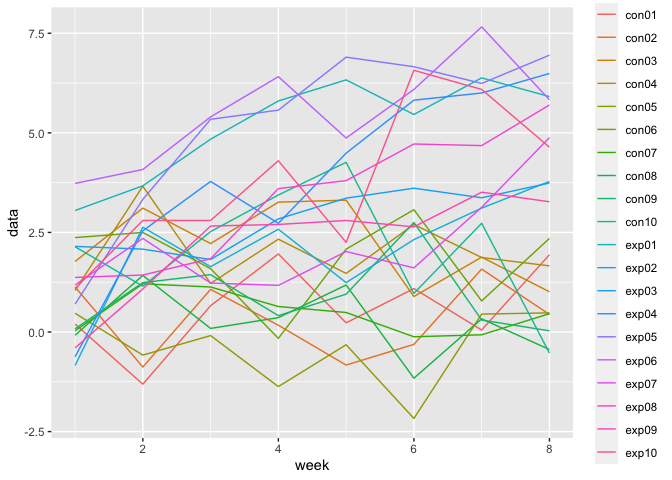
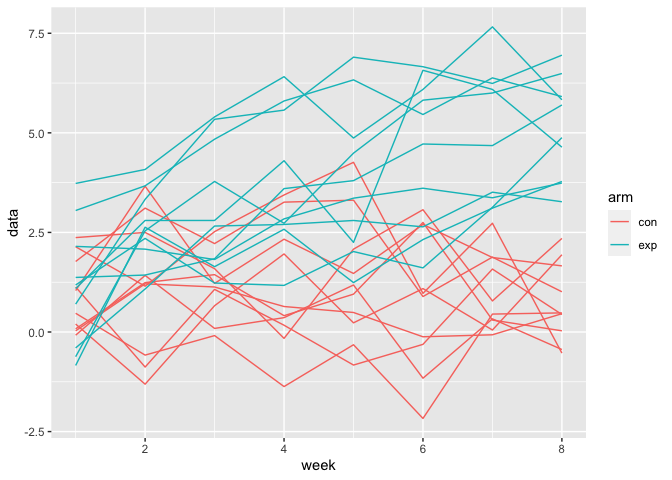
Polish!

diff --git a/DataScience_hm5.md b/DataScience_hm5.md
@@ -196,22 +196,20 @@ data_tidy =
   select(subject,week,data)%>%
   pivot_wider(names_from = subject,values_from = data)%>%
   mutate(week = as.numeric(str_remove(week,"week_")))
-data_tidy
+data_tidy%>%
+  knitr::kable()
 ```
 
-    ## # A tibble: 8 x 21
-    ##    week exp01 con01 exp02 con02 exp03 con03 exp04 con04 exp05 con05 exp06 con06
-    ##   <dbl> <dbl> <dbl> <dbl> <dbl> <dbl> <dbl> <dbl> <dbl> <dbl> <dbl> <dbl> <dbl>
-    ## 1     1  3.05  0.2  -0.84  1.13  2.15  1.77 -0.62  1.04  0.7   0.47  3.73  2.37
-    ## 2     2  3.67 -1.31  2.63 -0.88  2.08  3.11  2.54  3.66  3.33 -0.58  4.08  2.5 
-    ## 3     3  4.84  0.66  1.64  1.07  1.82  2.22  3.78  1.22  5.34 -0.09  5.4   1.59
-    ## 4     4  5.8   1.96  2.58  0.17  2.84  3.26  2.73  2.33  5.57 -1.37  6.41 -0.16
-    ## 5     5  6.33  0.23  1.24 -0.83  3.36  3.31  4.49  1.47  6.9  -0.32  4.87  2.08
-    ## 6     6  5.46  1.09  2.32 -0.31  3.61  0.89  5.82  2.7   6.66 -2.17  6.09  3.07
-    ## 7     7  6.38  0.05  3.11  1.58  3.37  1.88  6     1.87  6.24  0.45  7.66  0.78
-    ## 8     8  5.91  1.94  3.78  0.44  3.74  1.01  6.49  1.66  6.95  0.48  5.83  2.35
-    ## # … with 8 more variables: exp07 <dbl>, con07 <dbl>, exp08 <dbl>, con08 <dbl>,
-    ## #   exp09 <dbl>, con09 <dbl>, exp10 <dbl>, con10 <dbl>
+| week | exp01 | con01 | exp02 | con02 | exp03 | con03 | exp04 | con04 | exp05 | con05 | exp06 | con06 | exp07 | con07 | exp08 | con08 | exp09 | con09 | exp10 | con10 |
+|-----:|------:|------:|------:|------:|------:|------:|------:|------:|------:|------:|------:|------:|------:|------:|------:|------:|------:|------:|------:|------:|
+|    1 |  3.05 |  0.20 | -0.84 |  1.13 |  2.15 |  1.77 | -0.62 |  1.04 |  0.70 |  0.47 |  3.73 |  2.37 |  1.18 |  0.03 |  1.37 | -0.08 | -0.40 |  0.08 |  1.09 |  2.14 |
+|    2 |  3.67 | -1.31 |  2.63 | -0.88 |  2.08 |  3.11 |  2.54 |  3.66 |  3.33 | -0.58 |  4.08 |  2.50 |  2.35 |  1.21 |  1.43 |  1.42 |  1.08 |  1.24 |  2.80 |  1.15 |
+|    3 |  4.84 |  0.66 |  1.64 |  1.07 |  1.82 |  2.22 |  3.78 |  1.22 |  5.34 | -0.09 |  5.40 |  1.59 |  1.23 |  1.13 |  1.84 |  0.09 |  2.66 |  1.44 |  2.80 |  2.52 |
+|    4 |  5.80 |  1.96 |  2.58 |  0.17 |  2.84 |  3.26 |  2.73 |  2.33 |  5.57 | -1.37 |  6.41 | -0.16 |  1.17 |  0.64 |  3.60 |  0.36 |  2.70 |  0.41 |  4.30 |  3.44 |
+|    5 |  6.33 |  0.23 |  1.24 | -0.83 |  3.36 |  3.31 |  4.49 |  1.47 |  6.90 | -0.32 |  4.87 |  2.08 |  2.02 |  0.49 |  3.80 |  1.18 |  2.80 |  0.95 |  2.25 |  4.26 |
+|    6 |  5.46 |  1.09 |  2.32 | -0.31 |  3.61 |  0.89 |  5.82 |  2.70 |  6.66 | -2.17 |  6.09 |  3.07 |  1.61 | -0.12 |  4.72 | -1.16 |  2.64 |  2.75 |  6.57 |  0.97 |
+|    7 |  6.38 |  0.05 |  3.11 |  1.58 |  3.37 |  1.88 |  6.00 |  1.87 |  6.24 |  0.45 |  7.66 |  0.78 |  3.13 | -0.07 |  4.68 |  0.33 |  3.51 |  0.30 |  6.09 |  2.73 |
+|    8 |  5.91 |  1.94 |  3.78 |  0.44 |  3.74 |  1.01 |  6.49 |  1.66 |  6.95 |  0.48 |  5.83 |  2.35 |  4.88 |  0.46 |  5.70 | -0.44 |  3.27 |  0.03 |  4.64 | -0.53 |
 
 Method\_2 using purrr package
 
@@ -241,37 +239,22 @@ data_tidy =
   select(subject,week,data)%>%
   pivot_wider(names_from = subject,values_from = data)%>%
   mutate(week = as.numeric(str_remove(week,"week_")))
-data_tidy
+data_tidy%>%
+  knitr::kable()
 ```
 
-    ## # A tibble: 8 x 21
-    ##    week con01 con02 con03 con04 con05 con06 con07 con08 con09 con10 exp01 exp02
-    ##   <dbl> <dbl> <dbl> <dbl> <dbl> <dbl> <dbl> <dbl> <dbl> <dbl> <dbl> <dbl> <dbl>
-    ## 1     1  0.2   1.13  1.77  1.04  0.47  2.37  0.03 -0.08  0.08  2.14  3.05 -0.84
-    ## 2     2 -1.31 -0.88  3.11  3.66 -0.58  2.5   1.21  1.42  1.24  1.15  3.67  2.63
-    ## 3     3  0.66  1.07  2.22  1.22 -0.09  1.59  1.13  0.09  1.44  2.52  4.84  1.64
-    ## 4     4  1.96  0.17  3.26  2.33 -1.37 -0.16  0.64  0.36  0.41  3.44  5.8   2.58
-    ## 5     5  0.23 -0.83  3.31  1.47 -0.32  2.08  0.49  1.18  0.95  4.26  6.33  1.24
-    ## 6     6  1.09 -0.31  0.89  2.7  -2.17  3.07 -0.12 -1.16  2.75  0.97  5.46  2.32
-    ## 7     7  0.05  1.58  1.88  1.87  0.45  0.78 -0.07  0.33  0.3   2.73  6.38  3.11
-    ## 8     8  1.94  0.44  1.01  1.66  0.48  2.35  0.46 -0.44  0.03 -0.53  5.91  3.78
-    ## # … with 8 more variables: exp03 <dbl>, exp04 <dbl>, exp05 <dbl>, exp06 <dbl>,
-    ## #   exp07 <dbl>, exp08 <dbl>, exp09 <dbl>, exp10 <dbl>
+| week | con01 | con02 | con03 | con04 | con05 | con06 | con07 | con08 | con09 | con10 | exp01 | exp02 | exp03 | exp04 | exp05 | exp06 | exp07 | exp08 | exp09 | exp10 |
+|-----:|------:|------:|------:|------:|------:|------:|------:|------:|------:|------:|------:|------:|------:|------:|------:|------:|------:|------:|------:|------:|
+|    1 |  0.20 |  1.13 |  1.77 |  1.04 |  0.47 |  2.37 |  0.03 | -0.08 |  0.08 |  2.14 |  3.05 | -0.84 |  2.15 | -0.62 |  0.70 |  3.73 |  1.18 |  1.37 | -0.40 |  1.09 |
+|    2 | -1.31 | -0.88 |  3.11 |  3.66 | -0.58 |  2.50 |  1.21 |  1.42 |  1.24 |  1.15 |  3.67 |  2.63 |  2.08 |  2.54 |  3.33 |  4.08 |  2.35 |  1.43 |  1.08 |  2.80 |
+|    3 |  0.66 |  1.07 |  2.22 |  1.22 | -0.09 |  1.59 |  1.13 |  0.09 |  1.44 |  2.52 |  4.84 |  1.64 |  1.82 |  3.78 |  5.34 |  5.40 |  1.23 |  1.84 |  2.66 |  2.80 |
+|    4 |  1.96 |  0.17 |  3.26 |  2.33 | -1.37 | -0.16 |  0.64 |  0.36 |  0.41 |  3.44 |  5.80 |  2.58 |  2.84 |  2.73 |  5.57 |  6.41 |  1.17 |  3.60 |  2.70 |  4.30 |
+|    5 |  0.23 | -0.83 |  3.31 |  1.47 | -0.32 |  2.08 |  0.49 |  1.18 |  0.95 |  4.26 |  6.33 |  1.24 |  3.36 |  4.49 |  6.90 |  4.87 |  2.02 |  3.80 |  2.80 |  2.25 |
+|    6 |  1.09 | -0.31 |  0.89 |  2.70 | -2.17 |  3.07 | -0.12 | -1.16 |  2.75 |  0.97 |  5.46 |  2.32 |  3.61 |  5.82 |  6.66 |  6.09 |  1.61 |  4.72 |  2.64 |  6.57 |
+|    7 |  0.05 |  1.58 |  1.88 |  1.87 |  0.45 |  0.78 | -0.07 |  0.33 |  0.30 |  2.73 |  6.38 |  3.11 |  3.37 |  6.00 |  6.24 |  7.66 |  3.13 |  4.68 |  3.51 |  6.09 |
+|    8 |  1.94 |  0.44 |  1.01 |  1.66 |  0.48 |  2.35 |  0.46 | -0.44 |  0.03 | -0.53 |  5.91 |  3.78 |  3.74 |  6.49 |  6.95 |  5.83 |  4.88 |  5.70 |  3.27 |  4.64 |
 
 ### Spaghetti plot
-
-``` r
-data_tidy%>%
-  pivot_longer(con01:exp10,
-               names_to = 'subject',
-               values_to = 'data')%>%
-  ggplot(aes(x = week,y = data,color = subject))+
-  geom_line()
-```
-
-![](DataScience_hm5_files/figure-gfm/unnamed-chunk-11-1.png)<!-- --> To
-see the difference between control group and experiement we nee to draw
-a plot seperated by group.
 
 ``` r
 data_tidy%>%
@@ -283,10 +266,10 @@ data_tidy%>%
   geom_line(aes(color = arm))
 ```
 
-![](DataScience_hm5_files/figure-gfm/unnamed-chunk-12-1.png)<!-- -->
+![](DataScience_hm5_files/figure-gfm/unnamed-chunk-11-1.png)<!-- -->
 
 -   From the grouped line plot we can conclude that the value of
-    experiment group is greater than contorl group.
+    experiment group is greater than control group.
 
 # Problem 3
 
@@ -322,7 +305,7 @@ iris_with_missing
 ``` r
 fill_missing = function(vector){
   if(typeof(vector[1])=="double"){
-  mean = round(mean(vector,na.rm = TRUE),2)
+  mean = mean(vector,na.rm = TRUE)
   vector[is.na(vector)] = mean
   round(vector,2)
   vector
@@ -332,57 +315,116 @@ fill_missing = function(vector){
     vector
   }
 }
+
+#return the df of filled data
+iris_with_missing %>%
+  map_df(fill_missing)%>%
+  head(10)%>%
+  knitr::kable()
+```
+
+| sepal\_length | sepal\_width | petal\_length | petal\_width | species |
+|--------------:|-------------:|--------------:|-------------:|:--------|
+|      5.100000 |          3.5 |      1.400000 |     0.200000 | setosa  |
+|      4.900000 |          3.0 |      1.400000 |     0.200000 | setosa  |
+|      4.700000 |          3.2 |      1.300000 |     0.200000 | setosa  |
+|      4.600000 |          3.1 |      1.500000 |     1.192308 | setosa  |
+|      5.000000 |          3.6 |      1.400000 |     0.200000 | setosa  |
+|      5.400000 |          3.9 |      1.700000 |     0.400000 | setosa  |
+|      5.819231 |          3.4 |      1.400000 |     0.300000 | setosa  |
+|      5.000000 |          3.4 |      1.500000 |     0.200000 | setosa  |
+|      4.400000 |          2.9 |      1.400000 |     0.200000 | setosa  |
+|      4.900000 |          3.1 |      3.765385 |     0.100000 | setosa  |
+
+``` r
+# return the vector 
 iris_with_missing %>%
   map(fill_missing)
 ```
 
     ## $sepal_length
-    ##   [1] 5.10 4.90 4.70 4.60 5.00 5.40 5.82 5.00 4.40 4.90 5.40 4.80 5.82 4.30 5.82
-    ##  [16] 5.70 5.40 5.10 5.70 5.10 5.40 5.10 4.60 5.82 4.80 5.00 5.00 5.20 5.82 4.70
-    ##  [31] 4.80 5.40 5.20 5.50 4.90 5.00 5.50 4.90 4.40 5.10 5.00 4.50 4.40 5.00 5.10
-    ##  [46] 4.80 5.10 4.60 5.30 5.00 7.00 6.40 6.90 5.50 6.50 5.70 6.30 4.90 6.60 5.20
-    ##  [61] 5.00 5.90 6.00 6.10 5.60 6.70 5.60 5.80 6.20 5.60 5.90 5.82 6.30 5.82 6.40
-    ##  [76] 6.60 6.80 6.70 6.00 5.70 5.50 5.82 5.80 6.00 5.40 5.82 6.70 5.82 5.60 5.50
-    ##  [91] 5.50 5.82 5.80 5.00 5.82 5.70 5.70 6.20 5.10 5.70 6.30 5.80 7.10 6.30 6.50
-    ## [106] 7.60 4.90 7.30 6.70 5.82 6.50 5.82 6.80 5.70 5.80 6.40 6.50 7.70 7.70 6.00
-    ## [121] 5.82 5.60 7.70 6.30 6.70 7.20 6.20 6.10 6.40 7.20 7.40 7.90 6.40 5.82 6.10
-    ## [136] 5.82 5.82 6.40 6.00 6.90 6.70 6.90 5.82 6.80 6.70 6.70 6.30 6.50 5.82 5.90
+    ##   [1] 5.100000 4.900000 4.700000 4.600000 5.000000 5.400000 5.819231 5.000000
+    ##   [9] 4.400000 4.900000 5.400000 4.800000 5.819231 4.300000 5.819231 5.700000
+    ##  [17] 5.400000 5.100000 5.700000 5.100000 5.400000 5.100000 4.600000 5.819231
+    ##  [25] 4.800000 5.000000 5.000000 5.200000 5.819231 4.700000 4.800000 5.400000
+    ##  [33] 5.200000 5.500000 4.900000 5.000000 5.500000 4.900000 4.400000 5.100000
+    ##  [41] 5.000000 4.500000 4.400000 5.000000 5.100000 4.800000 5.100000 4.600000
+    ##  [49] 5.300000 5.000000 7.000000 6.400000 6.900000 5.500000 6.500000 5.700000
+    ##  [57] 6.300000 4.900000 6.600000 5.200000 5.000000 5.900000 6.000000 6.100000
+    ##  [65] 5.600000 6.700000 5.600000 5.800000 6.200000 5.600000 5.900000 5.819231
+    ##  [73] 6.300000 5.819231 6.400000 6.600000 6.800000 6.700000 6.000000 5.700000
+    ##  [81] 5.500000 5.819231 5.800000 6.000000 5.400000 5.819231 6.700000 5.819231
+    ##  [89] 5.600000 5.500000 5.500000 5.819231 5.800000 5.000000 5.819231 5.700000
+    ##  [97] 5.700000 6.200000 5.100000 5.700000 6.300000 5.800000 7.100000 6.300000
+    ## [105] 6.500000 7.600000 4.900000 7.300000 6.700000 5.819231 6.500000 5.819231
+    ## [113] 6.800000 5.700000 5.800000 6.400000 6.500000 7.700000 7.700000 6.000000
+    ## [121] 5.819231 5.600000 7.700000 6.300000 6.700000 7.200000 6.200000 6.100000
+    ## [129] 6.400000 7.200000 7.400000 7.900000 6.400000 5.819231 6.100000 5.819231
+    ## [137] 5.819231 6.400000 6.000000 6.900000 6.700000 6.900000 5.819231 6.800000
+    ## [145] 6.700000 6.700000 6.300000 6.500000 5.819231 5.900000
     ## 
     ## $sepal_width
-    ##   [1] 3.50 3.00 3.20 3.10 3.60 3.90 3.40 3.40 2.90 3.10 3.08 3.40 3.08 3.00 4.00
-    ##  [16] 4.40 3.90 3.50 3.80 3.80 3.40 3.70 3.60 3.30 3.40 3.00 3.40 3.50 3.40 3.20
-    ##  [31] 3.10 3.08 3.08 4.20 3.10 3.20 3.50 3.60 3.00 3.40 3.50 3.08 3.20 3.50 3.80
-    ##  [46] 3.00 3.80 3.20 3.70 3.08 3.08 3.20 3.10 2.30 2.80 2.80 3.30 2.40 2.90 2.70
-    ##  [61] 2.00 3.00 2.20 2.90 2.90 3.10 3.00 3.08 2.20 2.50 3.20 2.80 2.50 2.80 2.90
-    ##  [76] 3.00 2.80 3.08 3.08 2.60 2.40 2.40 2.70 2.70 3.00 3.40 3.10 3.08 3.00 2.50
-    ##  [91] 3.08 3.08 3.08 2.30 2.70 3.00 2.90 2.90 2.50 2.80 3.08 2.70 3.00 2.90 3.08
-    ## [106] 3.00 2.50 2.90 3.08 3.60 3.20 2.70 3.00 3.08 2.80 3.20 3.00 3.80 2.60 2.20
-    ## [121] 3.20 3.08 2.80 2.70 3.30 3.20 2.80 3.00 2.80 3.00 2.80 3.80 2.80 2.80 3.08
-    ## [136] 3.00 3.40 3.10 3.00 3.10 3.10 3.10 2.70 3.20 3.30 3.00 2.50 3.00 3.40 3.00
+    ##   [1] 3.500000 3.000000 3.200000 3.100000 3.600000 3.900000 3.400000 3.400000
+    ##   [9] 2.900000 3.100000 3.075385 3.400000 3.075385 3.000000 4.000000 4.400000
+    ##  [17] 3.900000 3.500000 3.800000 3.800000 3.400000 3.700000 3.600000 3.300000
+    ##  [25] 3.400000 3.000000 3.400000 3.500000 3.400000 3.200000 3.100000 3.075385
+    ##  [33] 3.075385 4.200000 3.100000 3.200000 3.500000 3.600000 3.000000 3.400000
+    ##  [41] 3.500000 3.075385 3.200000 3.500000 3.800000 3.000000 3.800000 3.200000
+    ##  [49] 3.700000 3.075385 3.075385 3.200000 3.100000 2.300000 2.800000 2.800000
+    ##  [57] 3.300000 2.400000 2.900000 2.700000 2.000000 3.000000 2.200000 2.900000
+    ##  [65] 2.900000 3.100000 3.000000 3.075385 2.200000 2.500000 3.200000 2.800000
+    ##  [73] 2.500000 2.800000 2.900000 3.000000 2.800000 3.075385 3.075385 2.600000
+    ##  [81] 2.400000 2.400000 2.700000 2.700000 3.000000 3.400000 3.100000 3.075385
+    ##  [89] 3.000000 2.500000 3.075385 3.075385 3.075385 2.300000 2.700000 3.000000
+    ##  [97] 2.900000 2.900000 2.500000 2.800000 3.075385 2.700000 3.000000 2.900000
+    ## [105] 3.075385 3.000000 2.500000 2.900000 3.075385 3.600000 3.200000 2.700000
+    ## [113] 3.000000 3.075385 2.800000 3.200000 3.000000 3.800000 2.600000 2.200000
+    ## [121] 3.200000 3.075385 2.800000 2.700000 3.300000 3.200000 2.800000 3.000000
+    ## [129] 2.800000 3.000000 2.800000 3.800000 2.800000 2.800000 3.075385 3.000000
+    ## [137] 3.400000 3.100000 3.000000 3.100000 3.100000 3.100000 2.700000 3.200000
+    ## [145] 3.300000 3.000000 2.500000 3.000000 3.400000 3.000000
     ## 
     ## $petal_length
-    ##   [1] 1.40 1.40 1.30 1.50 1.40 1.70 1.40 1.50 1.40 3.77 1.50 1.60 1.40 3.77 3.77
-    ##  [16] 1.50 1.30 1.40 1.70 1.50 1.70 1.50 1.00 3.77 1.90 3.77 1.60 1.50 1.40 1.60
-    ##  [31] 3.77 1.50 1.50 1.40 3.77 1.20 1.30 1.40 1.30 1.50 1.30 1.30 1.30 1.60 1.90
-    ##  [46] 1.40 1.60 3.77 1.50 1.40 4.70 4.50 4.90 4.00 4.60 4.50 4.70 3.77 4.60 3.90
-    ##  [61] 3.77 4.20 4.00 4.70 3.60 4.40 4.50 4.10 4.50 3.90 4.80 4.00 4.90 3.77 4.30
-    ##  [76] 4.40 4.80 5.00 4.50 3.50 3.80 3.70 3.90 5.10 4.50 4.50 4.70 4.40 3.77 4.00
-    ##  [91] 4.40 4.60 4.00 3.30 4.20 4.20 4.20 4.30 3.00 4.10 3.77 5.10 5.90 5.60 5.80
-    ## [106] 6.60 4.50 6.30 3.77 3.77 5.10 5.30 5.50 5.00 5.10 5.30 3.77 6.70 6.90 5.00
-    ## [121] 5.70 4.90 6.70 4.90 5.70 6.00 4.80 4.90 5.60 5.80 6.10 3.77 3.77 5.10 5.60
-    ## [136] 6.10 5.60 5.50 4.80 5.40 5.60 5.10 5.10 3.77 3.77 5.20 5.00 5.20 5.40 5.10
+    ##   [1] 1.400000 1.400000 1.300000 1.500000 1.400000 1.700000 1.400000 1.500000
+    ##   [9] 1.400000 3.765385 1.500000 1.600000 1.400000 3.765385 3.765385 1.500000
+    ##  [17] 1.300000 1.400000 1.700000 1.500000 1.700000 1.500000 1.000000 3.765385
+    ##  [25] 1.900000 3.765385 1.600000 1.500000 1.400000 1.600000 3.765385 1.500000
+    ##  [33] 1.500000 1.400000 3.765385 1.200000 1.300000 1.400000 1.300000 1.500000
+    ##  [41] 1.300000 1.300000 1.300000 1.600000 1.900000 1.400000 1.600000 3.765385
+    ##  [49] 1.500000 1.400000 4.700000 4.500000 4.900000 4.000000 4.600000 4.500000
+    ##  [57] 4.700000 3.765385 4.600000 3.900000 3.765385 4.200000 4.000000 4.700000
+    ##  [65] 3.600000 4.400000 4.500000 4.100000 4.500000 3.900000 4.800000 4.000000
+    ##  [73] 4.900000 3.765385 4.300000 4.400000 4.800000 5.000000 4.500000 3.500000
+    ##  [81] 3.800000 3.700000 3.900000 5.100000 4.500000 4.500000 4.700000 4.400000
+    ##  [89] 3.765385 4.000000 4.400000 4.600000 4.000000 3.300000 4.200000 4.200000
+    ##  [97] 4.200000 4.300000 3.000000 4.100000 3.765385 5.100000 5.900000 5.600000
+    ## [105] 5.800000 6.600000 4.500000 6.300000 3.765385 3.765385 5.100000 5.300000
+    ## [113] 5.500000 5.000000 5.100000 5.300000 3.765385 6.700000 6.900000 5.000000
+    ## [121] 5.700000 4.900000 6.700000 4.900000 5.700000 6.000000 4.800000 4.900000
+    ## [129] 5.600000 5.800000 6.100000 3.765385 3.765385 5.100000 5.600000 6.100000
+    ## [137] 5.600000 5.500000 4.800000 5.400000 5.600000 5.100000 5.100000 3.765385
+    ## [145] 3.765385 5.200000 5.000000 5.200000 5.400000 5.100000
     ## 
     ## $petal_width
-    ##   [1] 0.20 0.20 0.20 1.19 0.20 0.40 0.30 0.20 0.20 0.10 0.20 0.20 0.10 0.10 0.20
-    ##  [16] 0.40 0.40 1.19 0.30 1.19 0.20 0.40 0.20 0.50 0.20 0.20 0.40 0.20 0.20 0.20
-    ##  [31] 0.20 0.40 0.10 0.20 0.20 0.20 0.20 0.10 1.19 0.20 0.30 1.19 0.20 0.60 0.40
-    ##  [46] 0.30 0.20 0.20 0.20 0.20 1.40 1.50 1.50 1.30 1.50 1.30 1.60 1.00 1.30 1.40
-    ##  [61] 1.00 1.50 1.19 1.40 1.30 1.40 1.50 1.00 1.50 1.10 1.80 1.30 1.50 1.20 1.30
-    ##  [76] 1.40 1.40 1.19 1.19 1.00 1.10 1.00 1.20 1.60 1.50 1.60 1.19 1.30 1.19 1.19
-    ##  [91] 1.20 1.19 1.19 1.19 1.30 1.20 1.30 1.30 1.19 1.30 2.50 1.90 2.10 1.80 2.20
-    ## [106] 2.10 1.70 1.80 1.80 2.50 2.00 1.90 2.10 2.00 2.40 2.30 1.80 1.19 2.30 1.50
-    ## [121] 1.19 2.00 2.00 1.80 2.10 1.80 1.80 1.80 2.10 1.60 1.19 2.00 2.20 1.50 1.40
-    ## [136] 2.30 1.19 1.19 1.80 2.10 2.40 2.30 1.90 2.30 2.50 2.30 1.90 2.00 2.30 1.80
+    ##   [1] 0.200000 0.200000 0.200000 1.192308 0.200000 0.400000 0.300000 0.200000
+    ##   [9] 0.200000 0.100000 0.200000 0.200000 0.100000 0.100000 0.200000 0.400000
+    ##  [17] 0.400000 1.192308 0.300000 1.192308 0.200000 0.400000 0.200000 0.500000
+    ##  [25] 0.200000 0.200000 0.400000 0.200000 0.200000 0.200000 0.200000 0.400000
+    ##  [33] 0.100000 0.200000 0.200000 0.200000 0.200000 0.100000 1.192308 0.200000
+    ##  [41] 0.300000 1.192308 0.200000 0.600000 0.400000 0.300000 0.200000 0.200000
+    ##  [49] 0.200000 0.200000 1.400000 1.500000 1.500000 1.300000 1.500000 1.300000
+    ##  [57] 1.600000 1.000000 1.300000 1.400000 1.000000 1.500000 1.192308 1.400000
+    ##  [65] 1.300000 1.400000 1.500000 1.000000 1.500000 1.100000 1.800000 1.300000
+    ##  [73] 1.500000 1.200000 1.300000 1.400000 1.400000 1.192308 1.192308 1.000000
+    ##  [81] 1.100000 1.000000 1.200000 1.600000 1.500000 1.600000 1.192308 1.300000
+    ##  [89] 1.192308 1.192308 1.200000 1.192308 1.192308 1.192308 1.300000 1.200000
+    ##  [97] 1.300000 1.300000 1.192308 1.300000 2.500000 1.900000 2.100000 1.800000
+    ## [105] 2.200000 2.100000 1.700000 1.800000 1.800000 2.500000 2.000000 1.900000
+    ## [113] 2.100000 2.000000 2.400000 2.300000 1.800000 1.192308 2.300000 1.500000
+    ## [121] 1.192308 2.000000 2.000000 1.800000 2.100000 1.800000 1.800000 1.800000
+    ## [129] 2.100000 1.600000 1.192308 2.000000 2.200000 1.500000 1.400000 2.300000
+    ## [137] 1.192308 1.192308 1.800000 2.100000 2.400000 2.300000 1.900000 2.300000
+    ## [145] 2.500000 2.300000 1.900000 2.000000 2.300000 1.800000
     ## 
     ## $species
     ##   [1] "setosa"     "setosa"     "setosa"     "setosa"     "setosa"    
